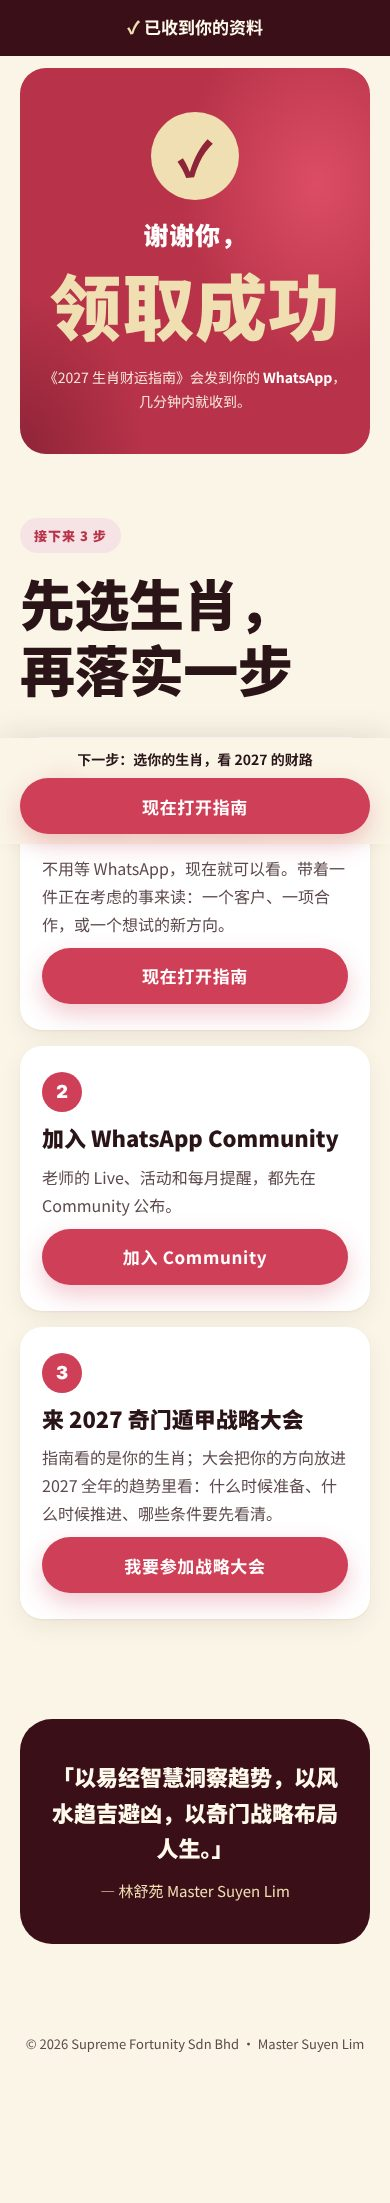
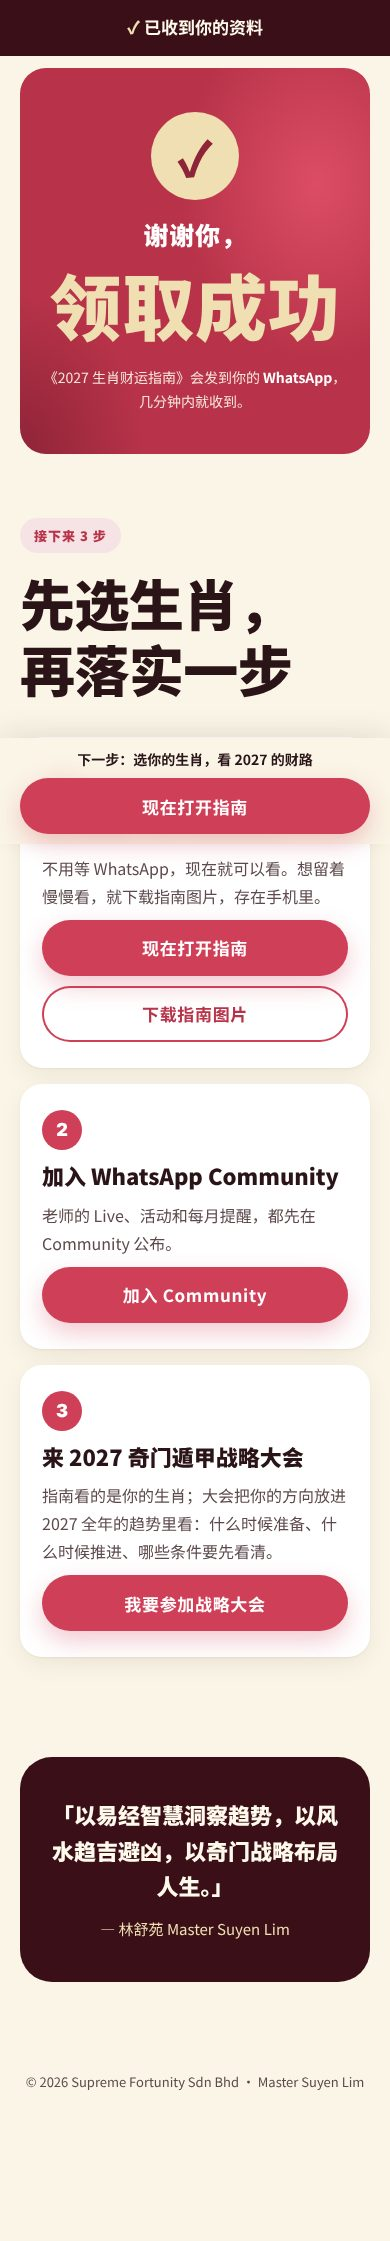
Landing: add guide download option on thank-you page
Claude-Session: https://claude.ai/code/session_018n9rFHsTsMP5QigxfKvfFu

diff --git a/project/suyen2027conference/skills/suyen-landing/examples/caiyun-guide/thanks.html b/project/suyen2027conference/skills/suyen-landing/examples/caiyun-guide/thanks.html
@@ -142,6 +142,9 @@ footer{text-align:center;padding:24px 20px;font-size:13px;color:var(--muted)}
 .saying{background:var(--crimson-900);color:#FFFAEB;border-radius:var(--radius-lg);padding:40px 26px;text-align:center;margin-top:36px}
 .saying p{font-size:22px;font-weight:900;line-height:1.6}
 .saying small{display:block;margin-top:12px;color:var(--beige);font-size:15px}
+/* 这一页加的：第二个按钮（下载） */
+.btn-line{background:transparent;color:var(--crimson-600);box-shadow:inset 0 0 0 2px var(--crimson)}
+.tstep .btn+.btn{margin-top:0}
 </style>
 </head>
 <body>
@@ -163,7 +166,7 @@ footer{text-align:center;padding:24px 20px;font-size:13px;color:var(--muted)}
   <span class="pill">接下来 3 步</span>
   <h2 class="h2"><span class="g">先选生肖，</span><span class="g">再落实一步</span></h2>
   <div class="tsteps">
-    <div class="tstep"><span class="n">1</span><h3>打开指南，选你的生肖</h3><p>不用等 WhatsApp，现在就可以看。带着一件正在考虑的事来读：一个客户、一项合作，或一个想试的新方向。</p><a class="btn" href="https://suyen-zodiac-guide-2027.wayne1996-cw.chatgpt.site">现在打开指南</a></div>
+    <div class="tstep"><span class="n">1</span><h3>打开指南，或下载收起来</h3><p>不用等 WhatsApp，现在就可以看。想留着慢慢看，就下载指南图片，存在手机里。</p><a class="btn" href="https://suyen-zodiac-guide-2027.wayne1996-cw.chatgpt.site">现在打开指南</a><!-- 【待补】guide.jpg 换成 Reagan 给的指南图片（上传平台后换网址） --><a class="btn btn-line" href="guide.jpg" download="2027生肖财运指南.jpg">下载指南图片</a></div>
     <div class="tstep"><span class="n">2</span><h3>加入 WhatsApp Community</h3><p>老师的 Live、活动和每月提醒，都先在 Community 公布。</p><a class="btn" href="#community-link">加入 Community</a></div>
     <div class="tstep"><span class="n">3</span><h3>来 2027 奇门遁甲战略大会</h3><p>指南看的是你的生肖；大会把你的方向放进 2027 全年的趋势里看：什么时候准备、什么时候推进、哪些条件要先看清。</p><a class="btn" href="https://2027-91t6.aigoal.ai/">我要参加战略大会</a></div>
   </div>

diff --git a/project/suyen2027conference/skills/suyen-landing/examples/caiyun-guide/optin.html b/project/suyen2027conference/skills/suyen-landing/examples/caiyun-guide/optin.html
@@ -383,7 +383,7 @@ input:checked~.zpanels .zhint{display:none}
   <h2 class="h2"><span class="g">6 步，</span><span class="g">把方向</span><span class="g">变成行动</span></h2>
   <div class="steps">
     <div class="step"><b>STEP 1</b><span>填称呼和 WhatsApp</span></div>
-    <div class="step"><b>STEP 2</b><span>WhatsApp 收指南</span></div>
+    <div class="step"><b>STEP 2</b><span>WhatsApp 收指南，可以下载</span></div>
     <div class="step"><b>STEP 3</b><span>选生肖，看财运和贵人</span></div>
     <div class="step"><b>STEP 4</b><span>选出生年份，查求财方向</span></div>
     <div class="step"><b>STEP 5</b><span>看哪几个月主动、哪几个月小心</span></div>
@@ -402,7 +402,7 @@ input:checked~.zpanels .zhint{display:none}
     </div>
     <div>
       <p class="free">免费领取</p>
-      <p class="sub" style="margin-top:6px">填好资料，指南马上发到你的 WhatsApp。</p>
+      <p class="sub" style="margin-top:6px">填好资料，指南马上发到你的 WhatsApp，线上看或下载都可以。</p>
       <form id="lead" data-aigoal-lead>
         <input type="hidden" name="funnel" value="caiyun-guide-2027">
         <label class="field"><span>称呼</span><input name="name" autocomplete="given-name" placeholder="例如：Amy" required></label>
